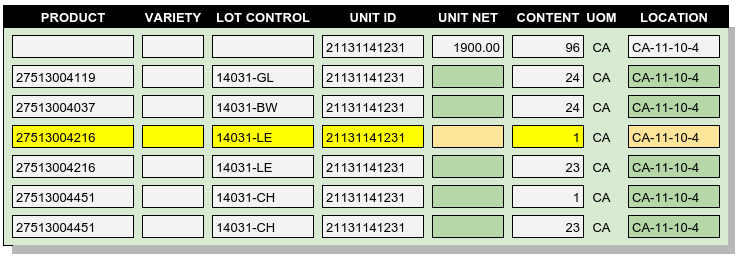
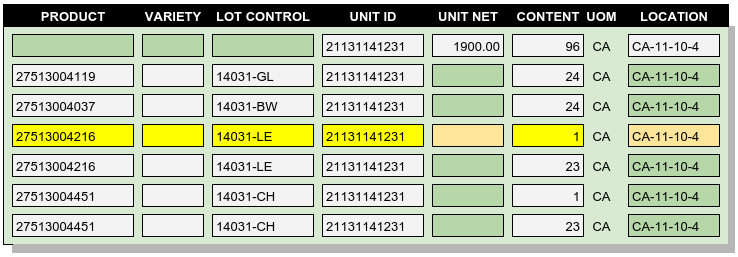
Updated transaction line documentation per Ben's suggestions

diff --git a/documents/02_transactions.rst b/documents/02_transactions.rst
@@ -74,29 +74,60 @@ pallets in every warehouse:
 We talk about not having mixed pallets when actually we do have them. 
 
 By default, webWARES combines unit and content data in a single entry line. In
-contrast, mixed pallet units start with a line that omits content values for 
-**Product**, **Variety**, or Lot **Control**, but includes **UnitID** which is 
-required. 
+contrast, mixed pallet units start with a parent line that omits content values 
+for **Product**, **Variety**, or Lot **Control**, but includes a required parent 
+**UnitID**. (Without the **UnitID**, there would be no way to distinguish a 
+mixed unit from a series of partial units.)
 
-Subsequent content lines will include **Product**, **Variety**, or Lot 
+Subsequent child content lines will include **Product**, **Variety**, or Lot 
 **Control** values, followed by the **UnitID**. Repeating the **UnitID** 
-triggers the association of the mixed content to the master "unit only" primary 
+triggers the association of the mixed child content to the parent "unit only" 
 line.
 
 .. tip::
    In addition to sharing **UnitID** and **Location**, mixed unit and content
    lines have the same **LineKey** (see :ref:`cryptic-data`). Every document 
    line has an entry for **LineKey**, while the **UnitID** value is optional on
-   lines and is surely missing with bulk entries.
+   other lines and is surely missing with bulk entries.
 
 .. image:: _images/lines-3mixed.png
 
-Detail for the highlighted line is shown below. Unit partial weights and partial 
-measures are auto-calculated on the content lines, and these values and the 
-location are filled and protected. Every entry but one, the **Condition**, came 
-from either product default values or the summary line entry.
+Repeating the **UnitID** causes the following changes to line detail values.
+
+*  Child content **Location** is filled from the parent unit and protected.
+*  **Count Per** on child content is cleared and protected; this does not apply 
+   to mixed pallets.
+*  Unit **Tare Weight** and unit **Quantity** are cleared and protected on child 
+   content lines.
+*  Entries for unit partial weights and partial measures are auto-calculated
+   based on the content quantity, and these entries are filled and protected.
+
+In addition, the parent unit line will have the following entries:
+
+*  The unit **Quantity**, which is always filled/protected, will show "1". 
+*  The unit **Tare Weight** will be taken from the product for the first child 
+   content line.
+*  The unit **Net Weight**, **Volume**, and **Quantity** entries will be the sum 
+   of these entries from the child content lines.
+*  The parent unit line entries for **Product**, **Variety**, and **Control**
+   will be cleared and protected.
+
+Detail for the highlighted line is shown below. Every entry but one, the 
+**Condition**, came from either product default values or the summary line 
+entry.
 
 .. image:: _images/lines-3-detail.png
+
+.. tip::
+   There seem to be two entry procedures for lines, but actually:
+   
+   *  Entering two consecutive content lines with the same **UnitID** will 
+      trigger a question, "Do these entries belong to the same unit? (Yes/no)." 
+      Answering "Yes" will create the parent unit line and update the child
+      content lines as described previously.
+   *  Enterig a unit record without product content information, followed by
+      child content records repeating the **UnitID**, will produce the same 
+      result without having to ask the question.
 
 Unit Tracking
 =============================
@@ -134,6 +165,10 @@ shown below.
 
 .. image:: _images/lines-5bulk.png
 
+.. tip::
+   On bulk entry lines, the line detail will show the unit count as the content 
+   **Quantity** divided by the content **Count Per**, plus 1 for any remainder.
+
 Using Line Detail Entries
 =============================
 
@@ -161,9 +196,9 @@ Line Data not Displayed
 Some document line data may not be included in a view, but is required for
 program operation. These columns are described in the following list.
 
-*  **SequenceKey** -- Each transaction line is assigned a unique sequential key.
+*  **SequenceKey** -- The program assigns a unique key to each document line.
 
-*  **TransactionType** and **Transaction** -- These are required back references
+*  **TransactionType** and **Transaction** -- are required back references
    from the document header, and these columns organize lines in lot or location 
    detail displays.
 

diff --git a/resources/05_lot-lines.rst b/resources/05_lot-lines.rst
@@ -80,6 +80,8 @@ Lot and  Unit Transactions
 +---+---+----------------+-----+---+----------------------+--------+-----+-----+
 | O | S | CONTENTSIZE    | N.4 |   | (MD4)                |        | R8  |     |
 +---+---+----------------+-----+---+----------------------+--------+-----+-----+
+| O | S | OVERSHORT      | N.0 |   | (MD0)                |        | R8  | [6]_|
++---+---+----------------+-----+---+----------------------+--------+-----+-----+
 | O | S | INNERUOM       | LC  | U | :ref:`uom-list`      | EA     | L4  |     |
 +---+---+----------------+-----+---+----------------------+--------+-----+-----+
 | O | S | INNERONHAND    | N.0 |   | (MD0)                |        | R8  |     |
@@ -103,6 +105,7 @@ Lot and  Unit Transactions
        considered available. Additional conditions which may apply to units in 
        a lot: quality check, inspection hold, freezer hold, and so forth, are 
        considered descriptive and are ignored for posting purposes.
+.. [6] OVERSHORT quantity applies to content of receipts only.
 
 .. note::
    *  Tracking requirements are set by product and are not reflected in the 
